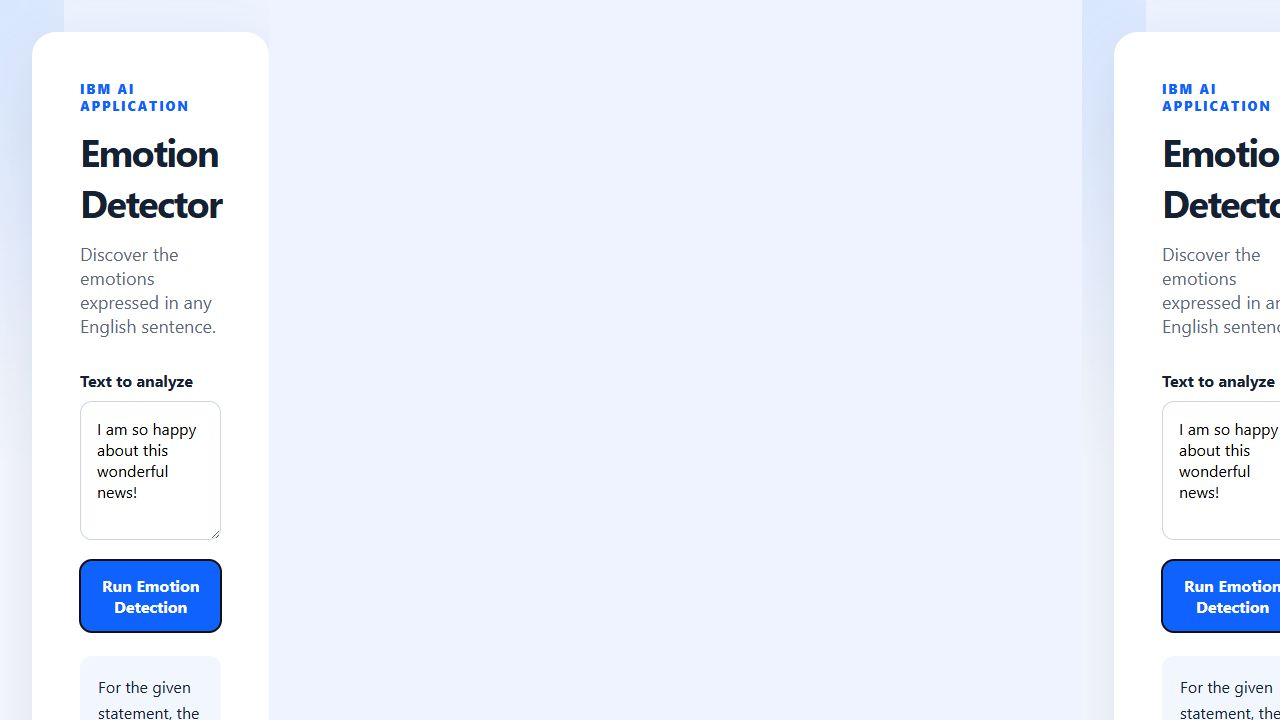
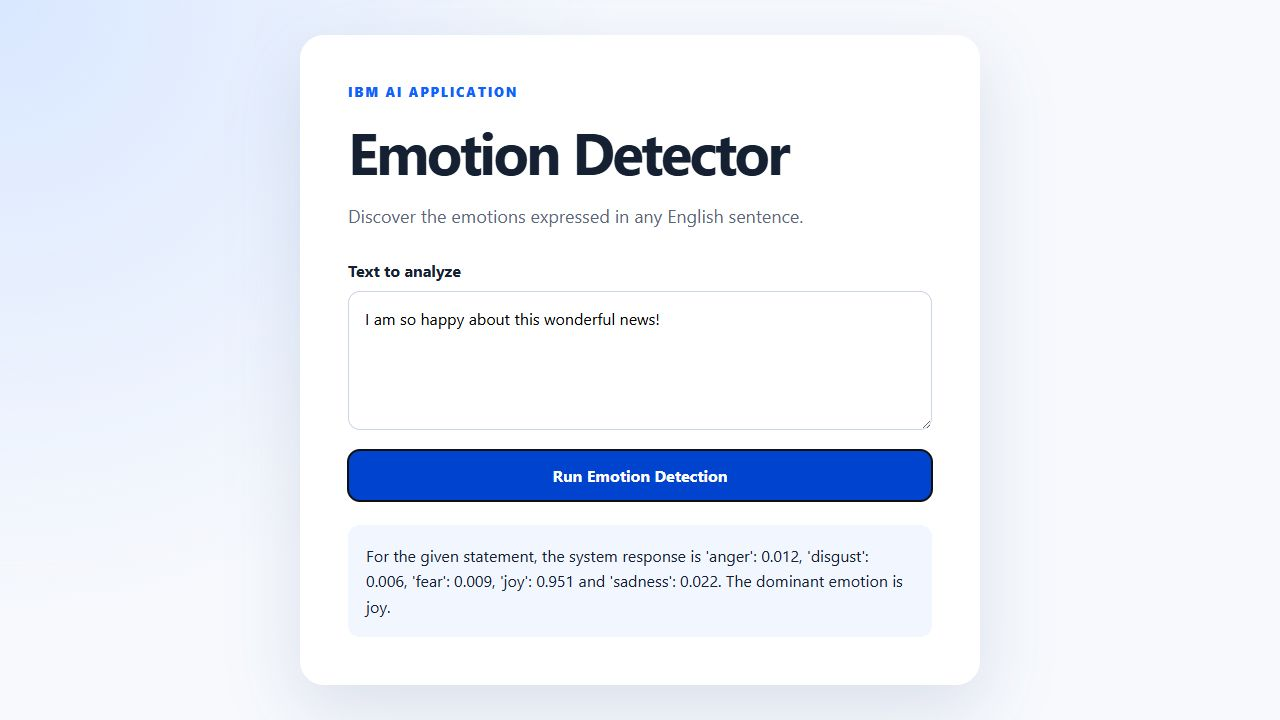
Improve responsive UI and evidence screenshots

diff --git a/static/style.css b/static/style.css
@@ -33,3 +33,15 @@ textarea:focus { outline: 3px solid #d6e5ff; border-color: #0f62fe; }
 button { width: 100%; margin-top: 16px; padding: 15px 20px; border: 0; border-radius: 12px; background: #0f62fe; color: white; font: inherit; font-weight: 750; cursor: pointer; }
 button:hover { background: #0043ce; }
 #result { min-height: 68px; margin-top: 24px; padding: 18px; border-radius: 12px; background: #f2f6ff; line-height: 1.6; }
+
+@media (max-width: 420px) {
+    body { padding: 8px; }
+    .card { padding: 16px; border-radius: 16px; }
+    .eyebrow { margin-bottom: 4px; font-size: 9px; }
+    h1 { font-size: 28px; }
+    .subtitle { margin: 4px 0 10px; font-size: 11px; }
+    label { margin-bottom: 4px; font-size: 11px; }
+    textarea { height: 48px; min-height: 48px; padding: 8px; font-size: 10px; }
+    button { margin-top: 6px; padding: 8px; font-size: 10px; }
+    #result { min-height: 32px; margin-top: 8px; padding: 8px; font-size: 9px; line-height: 1.35; }
+}
